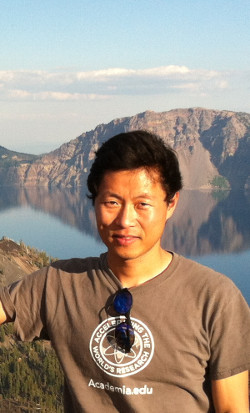
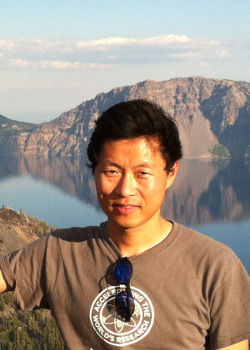
updates

diff --git a/index.html b/index.html
@@ -1,70 +1,26 @@
 ---
-layout: home
-title: 'David Kim: coding MBA'
-description: "David's portfolio and blog. MBA, hacker in training."
+layout: page
+title: "A Journey Toward Better"
 ---
-
 {% include setup %}
 
-<div class="sixteen columns">
-  <div class="eleven columns alpha">
-    <h1 class="remove-bottom" style="margin-top: 30px">Hi, I'm David Kim</h1>
-    <h4 class="tagline">I code and help people build businesses</h4>
-  </div>
-
-  <div id="nav" class="five columns omega">
-    <ul class="float-right">
-      <li><a href="blog/">Blog</a></li>
-      <li><a href="pages/consult.html">Hire</a></li>
-    </ul>
-  </div>
-</div>
-
-<hr />
-
-<div class="one-third column profile">
-  <img id="profile" alt="david profile picture" width="200px;" src="{{BASE_PATH}}/assets/images/profile2.jpg" onmouseenter="flip()" onmouseleave="flip_back()">
-  <p><small>Beautiful <a target="_" href="http://www.nps.gov/crla/">Crater Lake National Park</a></small></p>
-
-{% include ss-icons.html %}
-<br />
-{% include news.html %}
-
-</div>
-
-<div class="one-third column">
-  <h3>Currently Working On</h3>
-  <p>Lately, coding and building.</p>
-  <ul class="square">
-    <li><strong><a target="_" href="http://www.agilecredit.com/">AgileCredit</a></strong>: helping a pre-seed fin-tech team by coding.</li>
-    <li><strong><a target="_" href="http://www.meetup.com/ProductLovers/">Product Management FastTrack</a></strong>: helping PM community by connecting and educating.</li>
-    <li><strong><a target="_" href="https://github.com/Bettermeans/bettermeans/">Better</a></strong>: helping open-source project by writing specs.</li>
-    <li><strong><a target="_" href="http://www.choosingcodingbootcamps.com/">Choosing Coding Bootcamps</a></strong>: helping people make better decisions by writing.</li>
+<div class="eleven columns alpha">
+  <h4>Useful Content and Ideas on Business and Life</h4>
+  <br />
+  <ul>
+    {% for post in site.posts %}
+      <li style="font-size: 15px">{{ post.date | date: "<span style='color: gray; font-family: Courier;'>%d %b %Y: </span>"}} <a href="{{ post.url }}">{{post.title}}</a></li>
+    {% endfor %}
   </ul>
-
-  <blockquote class="pattern-diagonal">
-    <p>David Kim is not only someone who can implement a good idea, he is the person who comes up with that good idea in the first place.</p>
-    <cite><a target="_" href="http://www.linkedin.com/in/darylneely">Daryl Neely</a>, Product Manager</cite>
-  </blockquote>
 </div>
 
-<div class="one-third column">
-  <h3 style="display: inline;" id="how">How</h3>&nbsp;
-  <h3 style="display: inline;">Can I Help You?</h3>
-  <p></p>
-  <ul class="square">
-    <li><strong>Explore new revenues</strong>: by discovering new channels.</li>
-    <li><strong>Connect with customers</strong>: by building a community.</li>
-    <li><strong>Save time</strong>: by analyzing your workflows with a fresh perspective.</li>
-  </ul>
+<div class="five columns omega">
+  <h4>Get it in your inbox</h4>
+  <p>Get my best content on business. Delivered free.</p>
+    {% include mailchimp %}
 
-  <blockquote class="pattern-diagonal">
-    <p>David is an exceptional community leader and very strong connector amongst developers ...</p>
-    <cite><a target="_" href="http://www.linkedin.com/in/chrissita">Chris Sita</a>, Software Engineer</cite>
-  </blockquote>
+  <h4>About</h4>
+    <p>I believe that today is better than yesterday, that you can take small steps to be happier and better, and that learning is the key.</p>
 
-  <p>I have a <strong>MBA</strong> from <a target="_" href="http://www.darden.virginia.edu/web/Home/">Darden</a> and was a NC-licensed <strong>CPA</strong>. I like Ruby, Python and ice cream.</p>
-
-  <a href="pages/consult.html" class="button">Hire David!</a>
+  {% include profile.html %}
 </div>
-

diff --git a/david/index.html b/david/index.html
@@ -1,0 +1,69 @@
+---
+layout: home
+title: 'David Kim: coding MBA'
+description: "David's portfolio and blog. MBA, hacker in training."
+---
+
+{% include setup %}
+
+<div class="sixteen columns">
+  <div class="eleven columns alpha">
+    <h1 class="remove-bottom" style="margin-top: 30px">Hi, I'm David Kim</h1>
+    <h4 class="tagline">I code and help people build businesses</h4>
+  </div>
+
+  <div id="nav" class="five columns omega">
+    <ul class="float-right">
+      <li><a href="{{BASE_PATH}}/">Blog</a></li>
+      <li><a href="{{BASE_PATH}}/pages/consult.html">Contact</a></li>
+    </ul>
+  </div>
+</div>
+
+<hr />
+
+<div class="one-third column profile">
+{% include profile.html %}
+
+{% include ss-icons.html %}
+<br />
+{% include news.html %}
+
+</div>
+
+<div class="one-third column">
+  <h3>Currently Working On</h3>
+  <p>Lately, coding and building.</p>
+  <ul class="square">
+    <li><strong><a target="_" href="http://www.agilecredit.com/">AgileCredit</a></strong>: helping a pre-seed fin-tech team by coding.</li>
+    <li><strong><a target="_" href="http://productmanagementfasttrack.com/">Product Management Fast Track</a></strong>: helping PM community by connecting and educating.</li>
+    <li><strong><a target="_" href="https://github.com/Bettermeans/bettermeans/">Better</a></strong>: helping open-source project by writing specs.</li>
+    <li><strong><a target="_" href="http://www.choosingcodingbootcamps.com/">Choosing Coding Bootcamps</a></strong>: helping people make better decisions by writing.</li>
+  </ul>
+
+  <blockquote class="pattern-diagonal">
+    <p>David Kim is not only someone who can implement a good idea, he is the person who comes up with that good idea in the first place.</p>
+    <cite><a target="_" href="http://www.linkedin.com/in/darylneely">Daryl Neely</a>, Product Manager</cite>
+  </blockquote>
+</div>
+
+<div class="one-third column">
+  <h3 style="display: inline;" id="how">How</h3>&nbsp;
+  <h3 style="display: inline;">Can I Help You?</h3>
+  <p></p>
+  <ul class="square">
+    <li><strong>Explore new revenues</strong>: by discovering new channels.</li>
+    <li><strong>Connect with customers</strong>: by building a community.</li>
+    <li><strong>Save time</strong>: by analyzing your workflows with a fresh perspective.</li>
+  </ul>
+
+  <blockquote class="pattern-diagonal">
+    <p>David is an exceptional community leader and very strong connector amongst developers ...</p>
+    <cite><a target="_" href="http://www.linkedin.com/in/chrissita">Chris Sita</a>, Software Engineer</cite>
+  </blockquote>
+
+  <p>I have a <strong>MBA</strong> from <a target="_" href="http://www.darden.virginia.edu/web/Home/">Darden</a> and was a NC-licensed <strong>CPA</strong>. I like Ruby, Python and ice cream.</p>
+
+  <a href="{{BASE_PATH}}/pages/consult.html" class="button">Contact David!</a>
+</div>
+

diff --git a/_includes/navbar.html b/_includes/navbar.html
@@ -7,8 +7,8 @@
     </div>
     <div class="twelve columns omega">
       <ul class="float-right">
-        <li><a href="{{BASE_PATH}}/blog/">Blog</a></li>
-        <li><a href="{{BASE_PATH}}/pages/consult.html">Hire</a></li>
+        <li><a href="{{BASE_PATH}}/david">About</a></li>
+        <!-- <li><a href="{{BASE_PATH}}/pages/consult.html">Hire</a></li> -->
   <!--       <li><a href="#">More</a></li>
         <ul id="sub-menu" class="float-right">
           <li><a href="#">random</a></li>

diff --git a/_layouts/page.html b/_layouts/page.html
@@ -5,7 +5,7 @@ layout: default
 
 {% include navbar.html %}
 
-<div class="row">
+<!-- <div class="row">
   <div class="sixteen columns">
     <div class="page-title">
       {% if page.title %}
@@ -14,7 +14,7 @@ layout: default
       {% endif %}
     </div>
   </div>
-</div>
+</div> -->
 
 <div class="row">
   <div class="sixteen columns">

diff --git a/_includes/profile.html b/_includes/profile.html
@@ -1,0 +1,2 @@
+<img id="profile" alt="david profile picture" width="200px;" src="{{BASE_PATH}}/assets/images/profile2.jpg" onmouseenter="flip()" onmouseleave="flip_back()">
+<p><small>Beautiful <a target="_" href="http://www.nps.gov/crla/">Crater Lake National Park</a></small></p>

diff --git a/_layouts/post.html b/_layouts/post.html
@@ -26,7 +26,7 @@ layout: default
     <br /><br />
     {{ content }}
 
-    <a href="{{BASE_PATH}}/blog">Return to All Blogs</a>
+    <a href="{{BASE_PATH}}/index.html">Return to All Blogs</a>
     <br /><br />
     {% include share_follow.html %}
     {% include comments %}

diff --git a/404.html b/404.html
@@ -4,6 +4,6 @@ layout: default
 
 <p><strong>Uh oh!</strong></p>
 
-<p>Can't find this pgae =(</p>
+<p>Sorry! We can't find this page =(</p>
 
-<p>We'll get on it!</p>
+<p>We'll get on it! But if you can't wait, <a href="mailto:daviddarden11@gmail.com">email me here</a></p>

diff --git a/_posts/2014-02-09-no-one-pays-for-skill.md b/_posts/2014-02-09-no-one-pays-for-skill.md
@@ -2,7 +2,7 @@
 layout: post
 title: "No one pays you for skills"
 description: ""
-permalink: blog/no-one-pays-you-for-skills
+permalink: no-one-pays-you-for-skills
 category:
 tags: [economics]
 ---

diff --git a/_drafts/2014-02-23-sweat-the-small-stuff.md b/_drafts/2014-02-23-sweat-the-small-stuff.md
@@ -1,0 +1,9 @@
+---
+layout: post
+title: "make a mountain out of a molehill"
+description: ""
+permalink: sweat-the-small-stuff
+category:
+tags: [process, effectiveness]
+---
+{% include setup %}

diff --git a/_posts/2014-02-16-the-paradox-of-one-man.md b/_posts/2014-02-16-the-paradox-of-one-man.md
@@ -2,7 +2,7 @@
 layout: post
 title: "The paradox of leverage"
 description: ""
-permalink: blog/paradox-of-leverage
+permalink: paradox-of-leverage
 category: [team]
 tags: [team, leverage]
 ---

diff --git a/_posts/2014-02-02-helloworld.md b/_posts/2014-02-02-helloworld.md
@@ -2,7 +2,7 @@
 layout: post
 title: "Starting a new blog"
 description: "David Kim's blog"
-permalink: blog/david-kim-new-blog
+permalink: david-kim-new-blog
 category:
 tags: [general]
 ---

diff --git a/_posts/2014-02-11-preparing-for-start.md b/_posts/2014-02-11-preparing-for-start.md
@@ -2,7 +2,7 @@
 layout: post
 title: "Are you ready to start?"
 description: ""
-permalink: blog/preparing-to-begin
+permalink: preparing-to-begin
 category:
 tags: [preparing]
 ---
